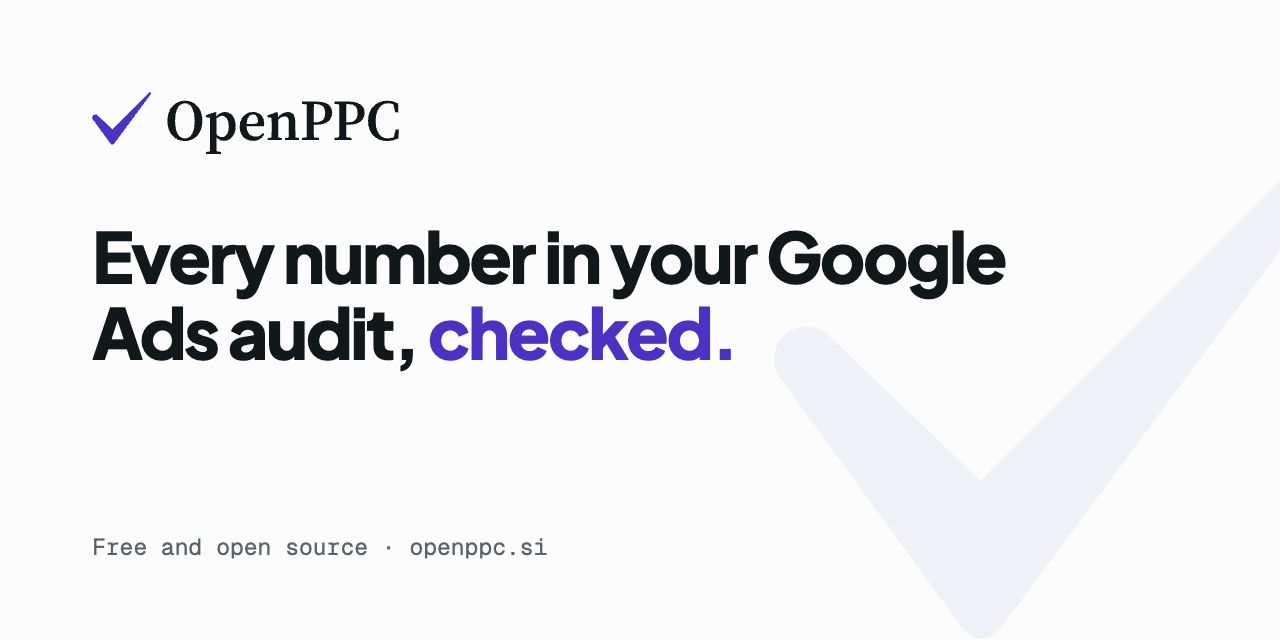
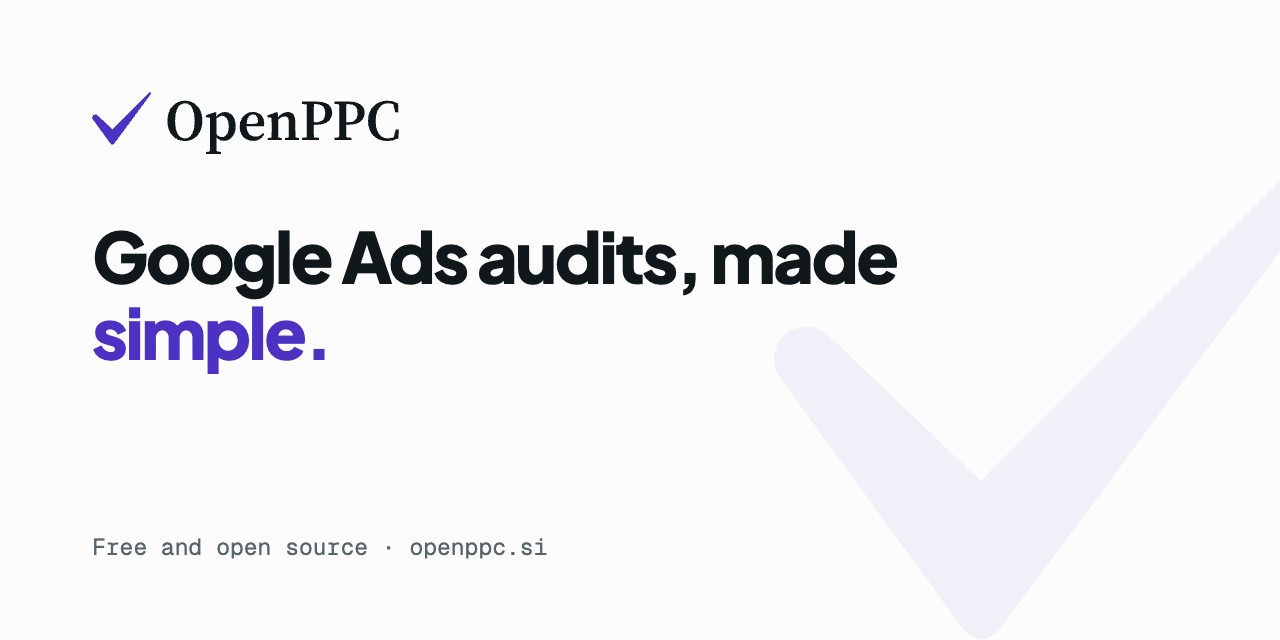
Headline: Google Ads audits, made simple (#3)
* Count website visits with Google Analytics, never in the app

The website pages load Google Tag Manager (GTM-MKK8JT53), which carries the GA4
tag G-ZGK3150N2J. Consent Mode keeps it to cookieless pings in the EU, EEA, UK and
Switzerland, uses analytics cookies elsewhere, and leaves advertising cookies off
everywhere. The pages' security policy now allows Google's tag and collection
addresses and nothing else.

The app at /app/ loads none of it: its own policy still allows connections only to
the Python runtime's CDN, and a new test fails if the tag ever reaches the app.
The Privacy section now says the website, not the app, counts visits.

* Headline: Google Ads audits, made simple

The hero now leads with the audit, and the line under it says what makes it
different: code computes every figure, and any AI-written audit can be checked
number by number. The page title and both share images carry the same headline.

Changed region(s): [[0.0625, 0.3438, 0.7812, 0.5938]]

diff --git a/site/pages/index.html b/site/pages/index.html
@@ -1,13 +1,13 @@
 <!--
-title: OpenPPC: every number in your Google Ads audit, checked
+title: OpenPPC: Google Ads audits, made simple
 description: Paste any AI-written Google Ads audit next to the export it came from, and see which numbers hold up. Free, open source, and it runs in your browser.
 schema: home
 -->
 <section class="hero">
   <div class="wrap">
     <span class="eyebrow">Open source · Runs in your browser</span>
-    <h1>Every number in your Google Ads audit, <em>checked</em>.</h1>
-    <p class="lead">Paste an audit from ChatGPT, Claude or your agency next to the export it came from, and see which numbers hold up. Or run a free audit of your own, where code computes every figure.</p>
+    <h1>Google Ads audits, made <em>simple</em>.</h1>
+    <p class="lead">Run a free audit of your Google Ads export, where code computes every figure. Or paste an audit from ChatGPT, Claude or your agency and see which numbers hold up.</p>
     <div class="cta-row">
       <a class="btn btn-primary" href="/app/">Try it in your browser</a>
       <a class="btn" href="https://github.com/secondsteplabs/openppc"><svg width="18" height="18" viewBox="0 0 24 24" fill="currentColor" aria-hidden="true"><path d="M12 .5a12 12 0 0 0-3.8 23.4c.6.1.8-.3.8-.6v-2.2c-3.3.7-4-1.4-4-1.4-.6-1.4-1.4-1.8-1.4-1.8-1.1-.8.1-.7.1-.7 1.2.1 1.9 1.2 1.9 1.2 1.1 1.8 2.8 1.3 3.5 1 .1-.8.4-1.3.8-1.6-2.7-.3-5.5-1.3-5.5-6a4.7 4.7 0 0 1 1.3-3.2c-.2-.3-.6-1.5.1-3.2 0 0 1-.3 3.3 1.2a11.5 11.5 0 0 1 6 0C17.3 4.7 18.3 5 18.3 5c.7 1.7.2 2.9.1 3.2a4.7 4.7 0 0 1 1.3 3.2c0 4.6-2.8 5.6-5.5 5.9.4.4.8 1.1.8 2.2v3.3c0 .3.2.7.8.6A12 12 0 0 0 12 .5z"/></svg>Star on GitHub</a>
